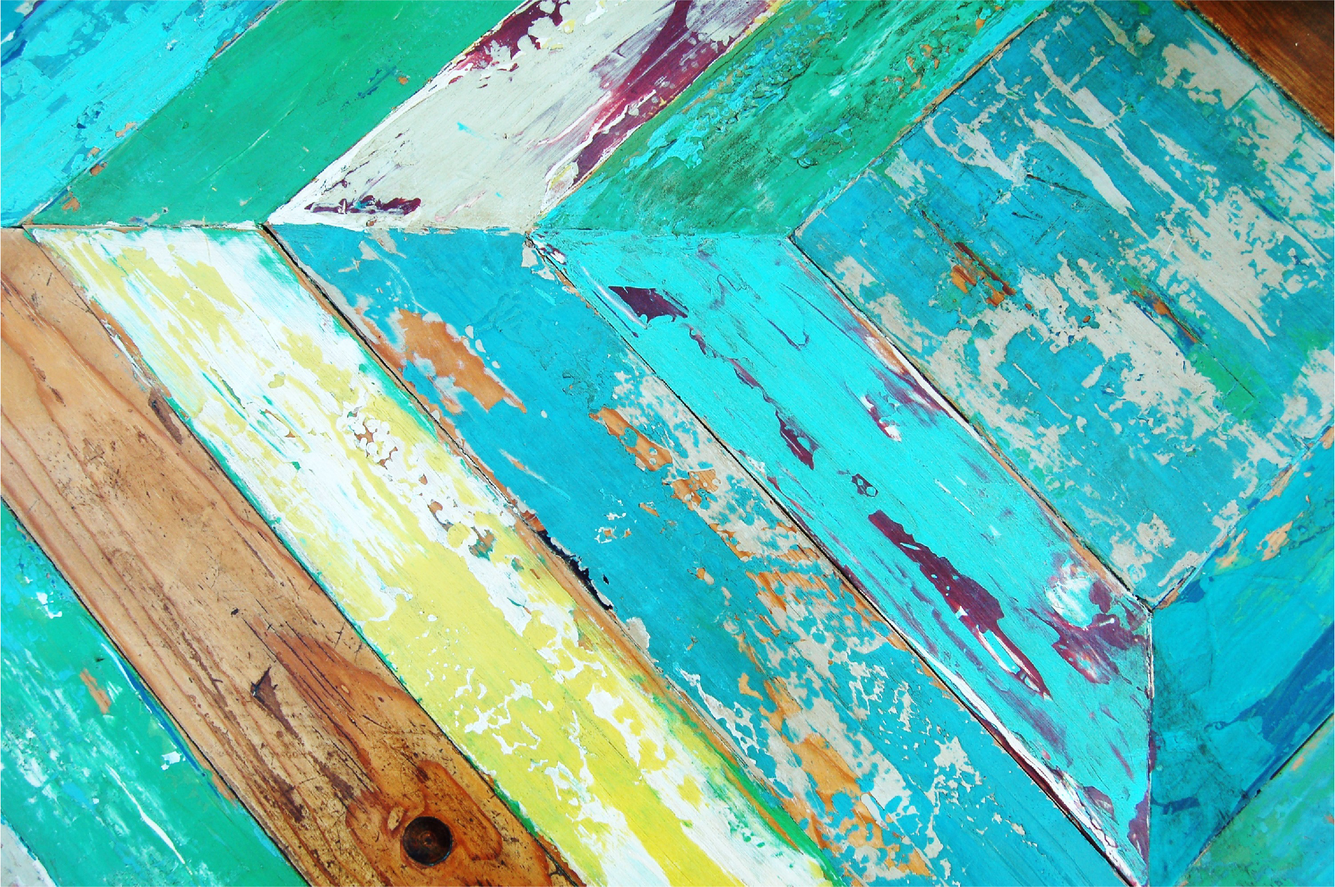
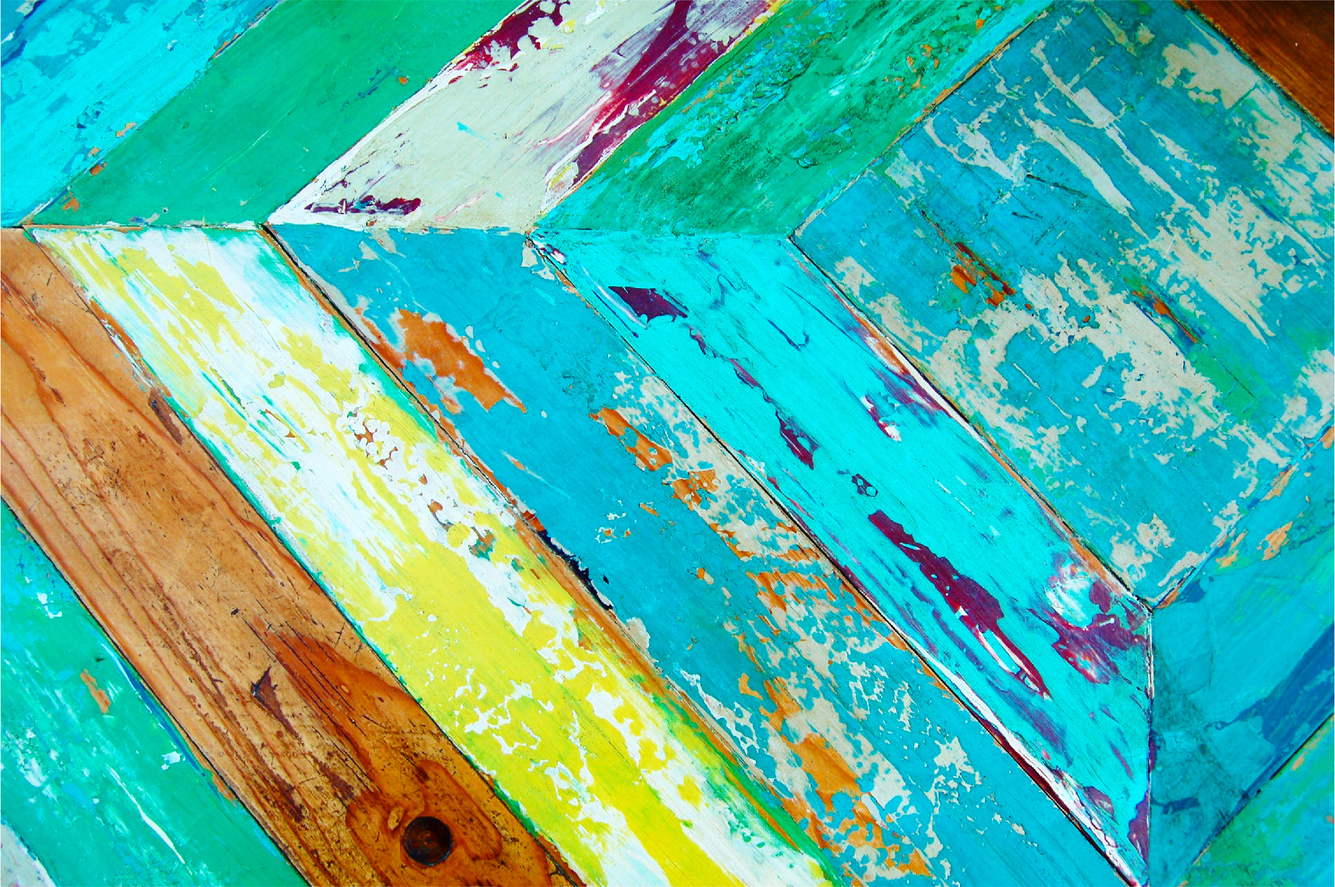
changed profile (-password, fix logout, fix js to log user out then back in to avoid alert

diff --git a/public/css/style.css b/public/css/style.css
@@ -61,7 +61,7 @@ a img {
 
 html {
   font-family: "Lato", 'Helvetica Nueue', Helvetica, Arial, sans-serif;
-  background: url("img/Color.jpg") no-repeat center center fixed; 
+  background: url("img/color.jpg") no-repeat center center fixed; 
   -webkit-background-size: cover;
   -o-background-size: cover;
   background-size: cover;
@@ -322,8 +322,9 @@ body .card-location .Coral button {
 .about {
   width: 100%;
   padding-top: 1rem;
+  line-height: 1.5rem;
   padding-bottom: 6rem;
-  font-size: 1.2em;
+  font-size: 1.4em;
   margin-top: 5em;
   margin-bottom: 5em;
   margin-right: auto;
@@ -352,7 +353,7 @@ body .card-location .Coral button {
   text-align: left;
   color: white;
   font-weight: 700;
-  font-size: .7em;
+  font-size: .9em;
 }
 @media only screen and (max-width: 570px) {.about p{
   font-size: .7em;
@@ -363,6 +364,9 @@ body .card-location .Coral button {
   color: white;
   font-weight: 700;
 }
+@media only screen and (max-width: 570px) {.about h1{
+  font-size: 1.4em;
+}}
 
 .home .about .center a {
   position: relative;
@@ -389,7 +393,7 @@ h1, h2, h3, h4 {
   opacity: .92;
 }
 
-.btnA:hover::before {
+A:hover::before {
   box-shadow: none;
   left: 0;
   top: 0;
@@ -399,25 +403,55 @@ h1, h2, h3, h4 {
 
 nav .userNav {
   position: relative;
+}
+@media only screen and (max-width: 470px) {nav .userNav{
+  height:75px;
+  font-size: 1.4em;
+  background-size: 35%;
+  background-position: top 12px left 5px;
+}}
+
+nav .logo{
+  position: relative;
   width: 100%;
   opacity: .92;
+  height: 90px;
+  z-index: -1;
   background-color: #000;
   background-image: url("img/LogoWebSVG.png");
   background-repeat: no-repeat;
   background-position: top 5px left 5px;
-  background-size: 15%; 
-  height: 90px;
+  background-size: 10%; 
   mix-blend-mode: multiply;
 }
-
-@media only screen and (max-width: 470px) {nav .userNav{
+@media only screen and (max-width: 1070px) {nav .logo{
+  height:75px;
+  background-size: 14%;
+  background-position: top 12px left 5px;
+}}
+@media only screen and (max-width: 870px) {nav .logo{
+  height:75px;
+  background-size: 18%;
+  background-position: top 12px left 5px;
+}}
+@media only screen and (max-width: 670px) {nav .logo{
+  height:75px;
+  background-size: 22%;
+  background-position: top 12px left 5px;
+}}
+@media only screen and (max-width: 570px) {nav .logo{
+  height:75px;
+  background-size: 25%;
+  background-position: top 12px left 5px;
+}}
+@media only screen and (max-width: 470px) {nav .logo{
   height:75px;
   background-size: 35%;
   background-position: top 12px left 5px;
 }}
 
 nav .userNav a:hover {
-  color: gold;
+  color: #E76C5A;
 }
 
 nav div a {
@@ -435,6 +469,7 @@ nav div a {
 
 nav .userNav a {
   color: white;
+  opacity: .85;
   margin: 10px 0px;
   padding: 5px 15px;
   font-size: 1.5em;
@@ -445,25 +480,45 @@ nav .userNav a {
   font-size: .8em;
 }}
 
+.fb-img {
+  position: relative;
+  float: right;
+  height: 90px;
+}
+@media only screen and (max-width: 1070px) {.fb-img{
+  height:75px;
+}}
+
 nav .siteNav a {
-  color: black;
+  color: white;
+  opacity: .95;
   margin: 10px 0px;
   padding: 0px 15px;
   font-size: 1em;
+  text-shadow: 1.5px 2px black;
   font-weight: 700;
   font-family: Lato, 'Helvetica Nueue', Helvetica, Arial, sans-serif;
 }
+@media only screen and (max-width: 570px) {nav .siteNav a {
+  color: black;
+  text-shadow: 1.5px 1px white;
+}}
 
 nav .siteNav a:hover {
-  color: #E76C5A;
+  text-shadow: 1.5px 1px black;
+  font-size: 1.2em;
 }
+@media only screen and (max-width: 470px) {nav .siteNav a:hover {
+  text-shadow: 1.5px 1px white;
+  font-size: 1em;
+}}
 
 nav .siteNav a:active {
   color: #E76C5A;
 }
 
 nav .siteNav a{
-  color: black;
+
   font-size: .9em;
   font-weight: bolder;
   float: right;
@@ -497,7 +552,7 @@ footer .footer-locations .loc:last-child {
 }
 
 footer .footer-locations li {
-  font-size: .6em;
+  font-size: .9em;
   text-decoration: none;
 }
 
@@ -576,26 +631,21 @@ textarea{
 /*Animated Logout Button*/
 
 .animate-btn {
-  margin-right: .2em;
+  position: relative;
+  float: right;
   font-size: .9em;
   padding: 5px 5px;
-  border: 2px solid #fff;
-  background: rgba(255, 220, 220, 0.5);
-  color: #fff;
+  border: 2px solid #000;
+  background: rgba(255, 220, 220, .9);
+  color: #000;
   text-align: center;
   text-decoration: none;
   text-transform: uppercase;
-  overflow: hidden;
-  transition: all .3s ease;
 }
 
 .animate-btn::after {
   content: "";
-  position: absolute;
   background: none repeat scroll 0 0 #900;
-  left: 50%;
-  top: 50%;
-  width: 100%;
   z-index: -1;
   transition: all .3s ease 0s;
 }
@@ -846,7 +896,7 @@ label {
 
 .btn--form {
   font-family: sans-serif;
-  padding: .5rem 3rem;
+  padding: .4rem 4.8rem;
   font-size: .95rem;
   font-weight: 600;
   text-transform: uppercase;

diff --git a/public/views/profile.html b/public/views/profile.html
@@ -1,6 +1,7 @@
 <section class="card">
     <div class="profile__form">
       <form name="myform">
+        <a ng-show="currentUser" ng-href="#/home" ng-click="authObj.$signOut()" class="animate-btn zoomout-btn">Logout</a><br>
         <h1>User Profile</h1>
         <img class="profile-img-center" ng-src="{{currentUser.photoURL}}" ng-href="#/profile" />
           <fieldset class="form-body">
@@ -11,18 +12,11 @@
             </div>
             <div class="form-model">
               <label>Email</label><br>
-                <input class="form-control" type="email" name="email" ng-model="user.email" placeholder="{{currentUser.email}}" ng-required="true">
-                <button ng-click="updateEmail()" ng-show="myform.email.$valid">Save</button>
-            </div>
-            <div class="form-model">
-              <label>Phone Number</label><br>
-                <input class="form-control" type="tel" name="phone" ng-model="user.phone" placeholder="{{currentUser.phone}}" ng-required="true" pattern="^\d{3}-\d{3}-\d{4}$">
-                <button ng-show="myform.phone.$valid">Save</button>
+                <p>{{currentUser.email}}</p>
             </div>
           </fieldset>
       </form>  
       <button class="btn--form" ng-click="sendPasswordResetEmail()">Change Password</button>
-      <a ng-show="currentUser" ng-href="#/home" ng-click="authObj.$signOut()" class="animate-btn zoomout-btn">Logout</a>
     </div>
 </section>
 

diff --git a/public/views/userNav.html b/public/views/userNav.html
@@ -1,12 +1,13 @@
 <div class="skew">
 	<div class="container">
 		<div class="userNav" ng-controller="AuthCtrl">
-				<img ng-show="currentUser" class="profile-img" ng-src="{{currentUser.photoURL}}" ng-href="#/profile" />
-				<!-- ng-hide="currentUser" hides the given routes while user is signed in. This helps with confusing and reasurance that they are logged in. -->
-				<a ng-hide="currentUser" ng-href="#/login">Login</a>
-				<a ng-hide="currentUser" ng-href="#/register">Register</a>
-				<!-- Depending on what sign in method they use we will need to call diferent firebase fields held in the seperate authObj targeted -->
-				<a ng-show="currentUser" ng-href="#/profile">{{currentUser.username}}<br>Profile</a>
+			<img class="fb-img" ng-show="currentUser" ng-src="{{currentUser.photoURL}}" ng-href="#/profile" />
+			<!-- ng-hide="currentUser" hides the given routes while user is signed in. This helps with confusing and reasurance that they are logged in. -->
+			<a ng-hide="currentUser" ng-href="#/login">Login</a>
+			<a ng-hide="currentUser" ng-href="#/register">Register</a>
+			<!-- Depending on what sign in method they use we will need to call diferent firebase fields held in the seperate authObj targeted -->
+			<a ng-show="currentUser" ng-href="#/profile">{{currentUser.username}}<br></a>
+			<div class="logo"></div>
 		</div>
 	</div>
 </div>

diff --git a/public/js/controllers/ProfileCtrl.js b/public/js/controllers/ProfileCtrl.js
@@ -1,5 +1,5 @@
-myApp.controller('ProfileCtrl', ['$scope', '$rootScope', '$location', '$firebaseObject', '$firebaseArray', '$firebaseAuth', 'Auth',
-  function($scope, $rootScope, $location, $firebaseObject, $firebaseArray, $firebaseAuth, Auth) {
+myApp.controller('ProfileCtrl', ['$scope', '$rootScope', '$location', '$firebaseObject', '$firebaseArray', '$firebaseAuth', 'Auth', 'signinWithFacebook',
+  function($scope, $rootScope, $location, $firebaseObject, $firebaseArray, $firebaseAuth, Auth, signinWithFacebook) {
     
   $scope.authObj = $firebaseAuth();
   $scope.authObj.$onAuthStateChanged(function(firebaseUser, result) {
@@ -35,8 +35,8 @@ myApp.controller('ProfileCtrl', ['$scope', '$rootScope', '$location', '$firebase
 // After placing new data into the input a save button will appear and they can save the new username.
         displayName: $scope.user.username
         }).then(function() {
-          alert("update Successfull Please Login")
-          firebase.auth().signOut().$onAuthStateChanged(callback);
+          firebase.auth().signOut();
+          signinWithFacebook.login();
         })
   }
   

diff --git a/public/js/controllers/GalleryCtrl.js b/public/js/controllers/GalleryCtrl.js
@@ -3,14 +3,18 @@ myApp.controller('GalleryCtrl', ['$scope', '$rootScope', '$timeout', '$firebaseA
 
 
 var ref = firebase.database().ref("products" );
-  
   $scope.data = $firebaseArray(ref);
   
+// Using the addProduct function we pass in the scoped models and add them into the data array 
+// is stored in the firebase refrence "products" at base level with the "users"
   $scope.addProduct = function() {
     $scope.data.$add({
       dimensions: $scope.dimensions,
       productInfo: $scope.productInfo,
       image: $scope.croppedDataUrl,
+// I decided to add the $ to help with the validation of only numbers it places the $ sign onto the 
+// data during the adding process and is stored into the firebase with the $ sign. When I retrieve
+// the data later it will still have the $
       price: "$" + $scope.price 
 
     }).then(function() {

diff --git a/public/views/register.html b/public/views/register.html
@@ -17,7 +17,7 @@
             </div>
             <div class="form-model">
               <label>Phone Number</label><br>
-                <input class="form-control" type="tel" name="phone" ng-model="user.phone" placeholder="(xxx-xxx-xxxx)" ng-required="true" pattern="^\d{3}-\d{3}-\d{4}$"  >
+                <input class="form-control" type="tel" name="phone" ng-model="user.phone" placeholder="(xxx-xxx-xxxx)" ng-required="true" pattern="^\d{7}$"  >
                 <p class="error validationerror" 
                 ng-show="myform.phone.$invalid && myform.phone.$touched">Make sure " - "  are used and is valid</p>
             </div>

diff --git a/public/views/home.html b/public/views/home.html
@@ -20,7 +20,7 @@
 				Staff members do not work on commission and are available to answer your questions. If your unable to find the perfect piece talk to a staff member because chances are we may have it in stock at another location. We look forward to helping you come by today.
 				</p>
 				<!-- This <a> Will take you to more information regarding products that is not accesable to the nav -->
-				<a ng-href="#/information">More information?</a> 
+				<a ng-href="#/information">Materials Used</a> 
 		</div>
 	</div>
 </div>
